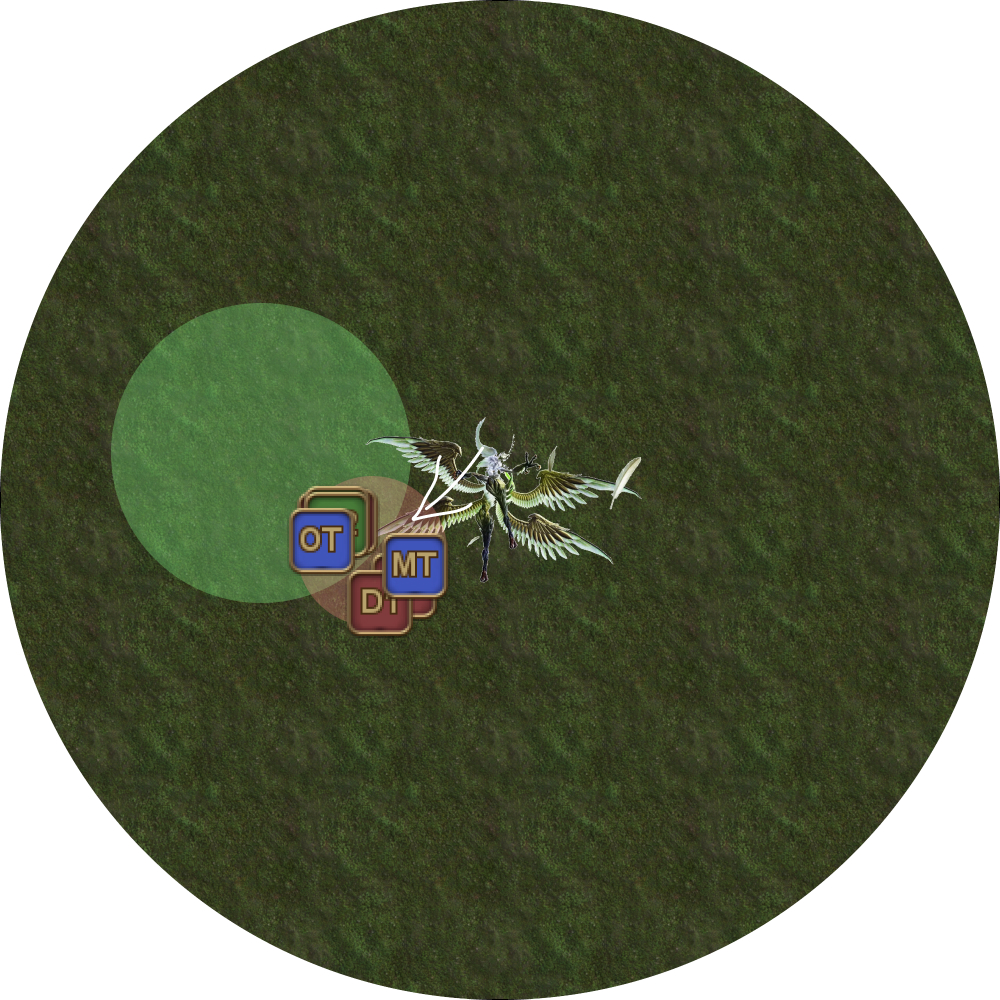
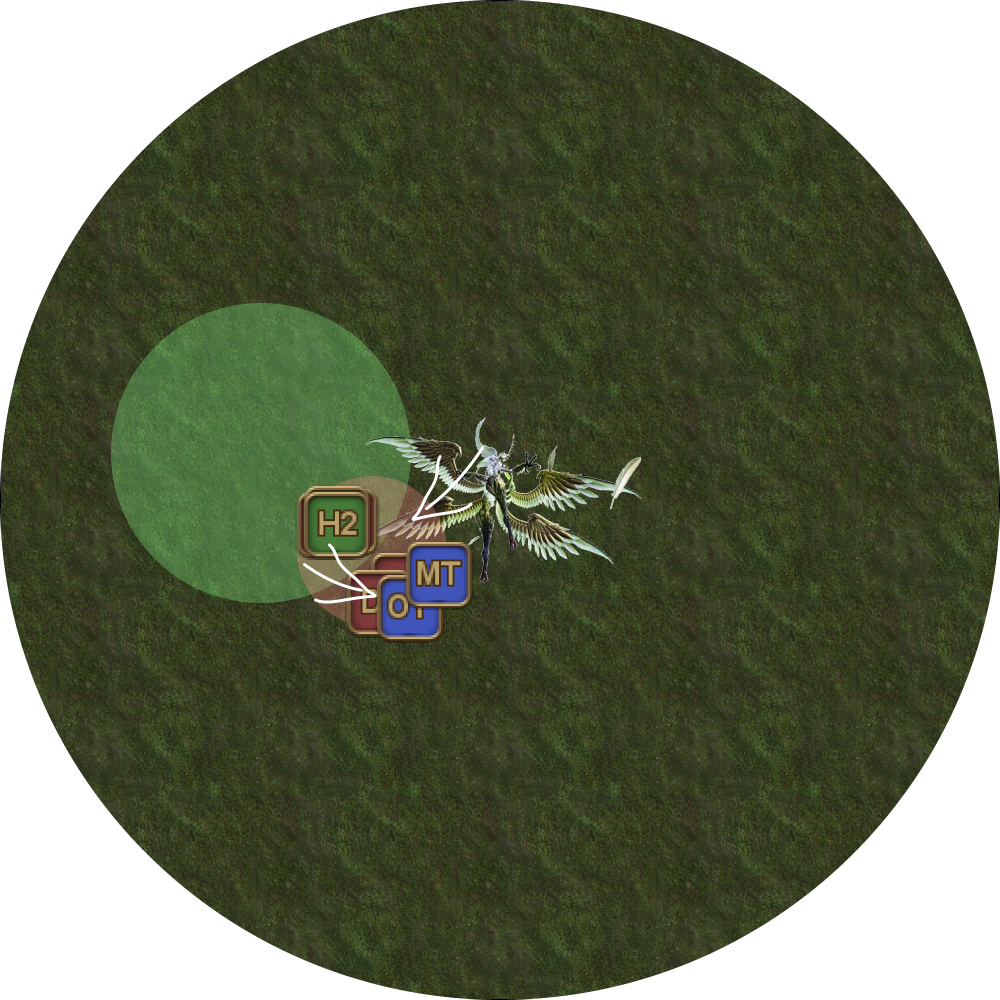
Fix diagrams

Changed region(s): [[0.279, 0.496, 0.496, 0.651]]

diff --git a/ultimates/uwu/en/01_garuda.md b/ultimates/uwu/en/01_garuda.md
@@ -103,7 +103,7 @@ This is the major mechanic in Garuda, and is where the party will set Garuda up 
 	<td><img src="../images/garuda/garuda_09.jpg"></td>
   </tr>
   <tr>
-    <td><p><b>10.</b> The MT joins D1 and D2 outside the bubble.</p><p>Garuda will cast Friction on a random player other than the MT. This will give all players that are hit one stack of Thermal Low; the players inside the bubble will have their stack immediately cleansed.</p><p><em>(At this point, only the MT, ST, D1, D2 should have 1 stack of Thermal Low.)</em></p></td>
+    <td><p><b>10.</b> The MT and ST joins D1 and D2 outside the bubble.</p><p>Garuda will cast Friction on a random player other than the MT. This will give all players that are hit one stack of Thermal Low; the players inside the bubble will have their stack immediately cleansed.</p><p><em>(Only the MT, ST, D1, D2 should now have 1 stack of Thermal Low.)</em></p></td>
 	<td><img src="../images/garuda/garuda_10.jpg"></td>
   </tr>
   <tr>
